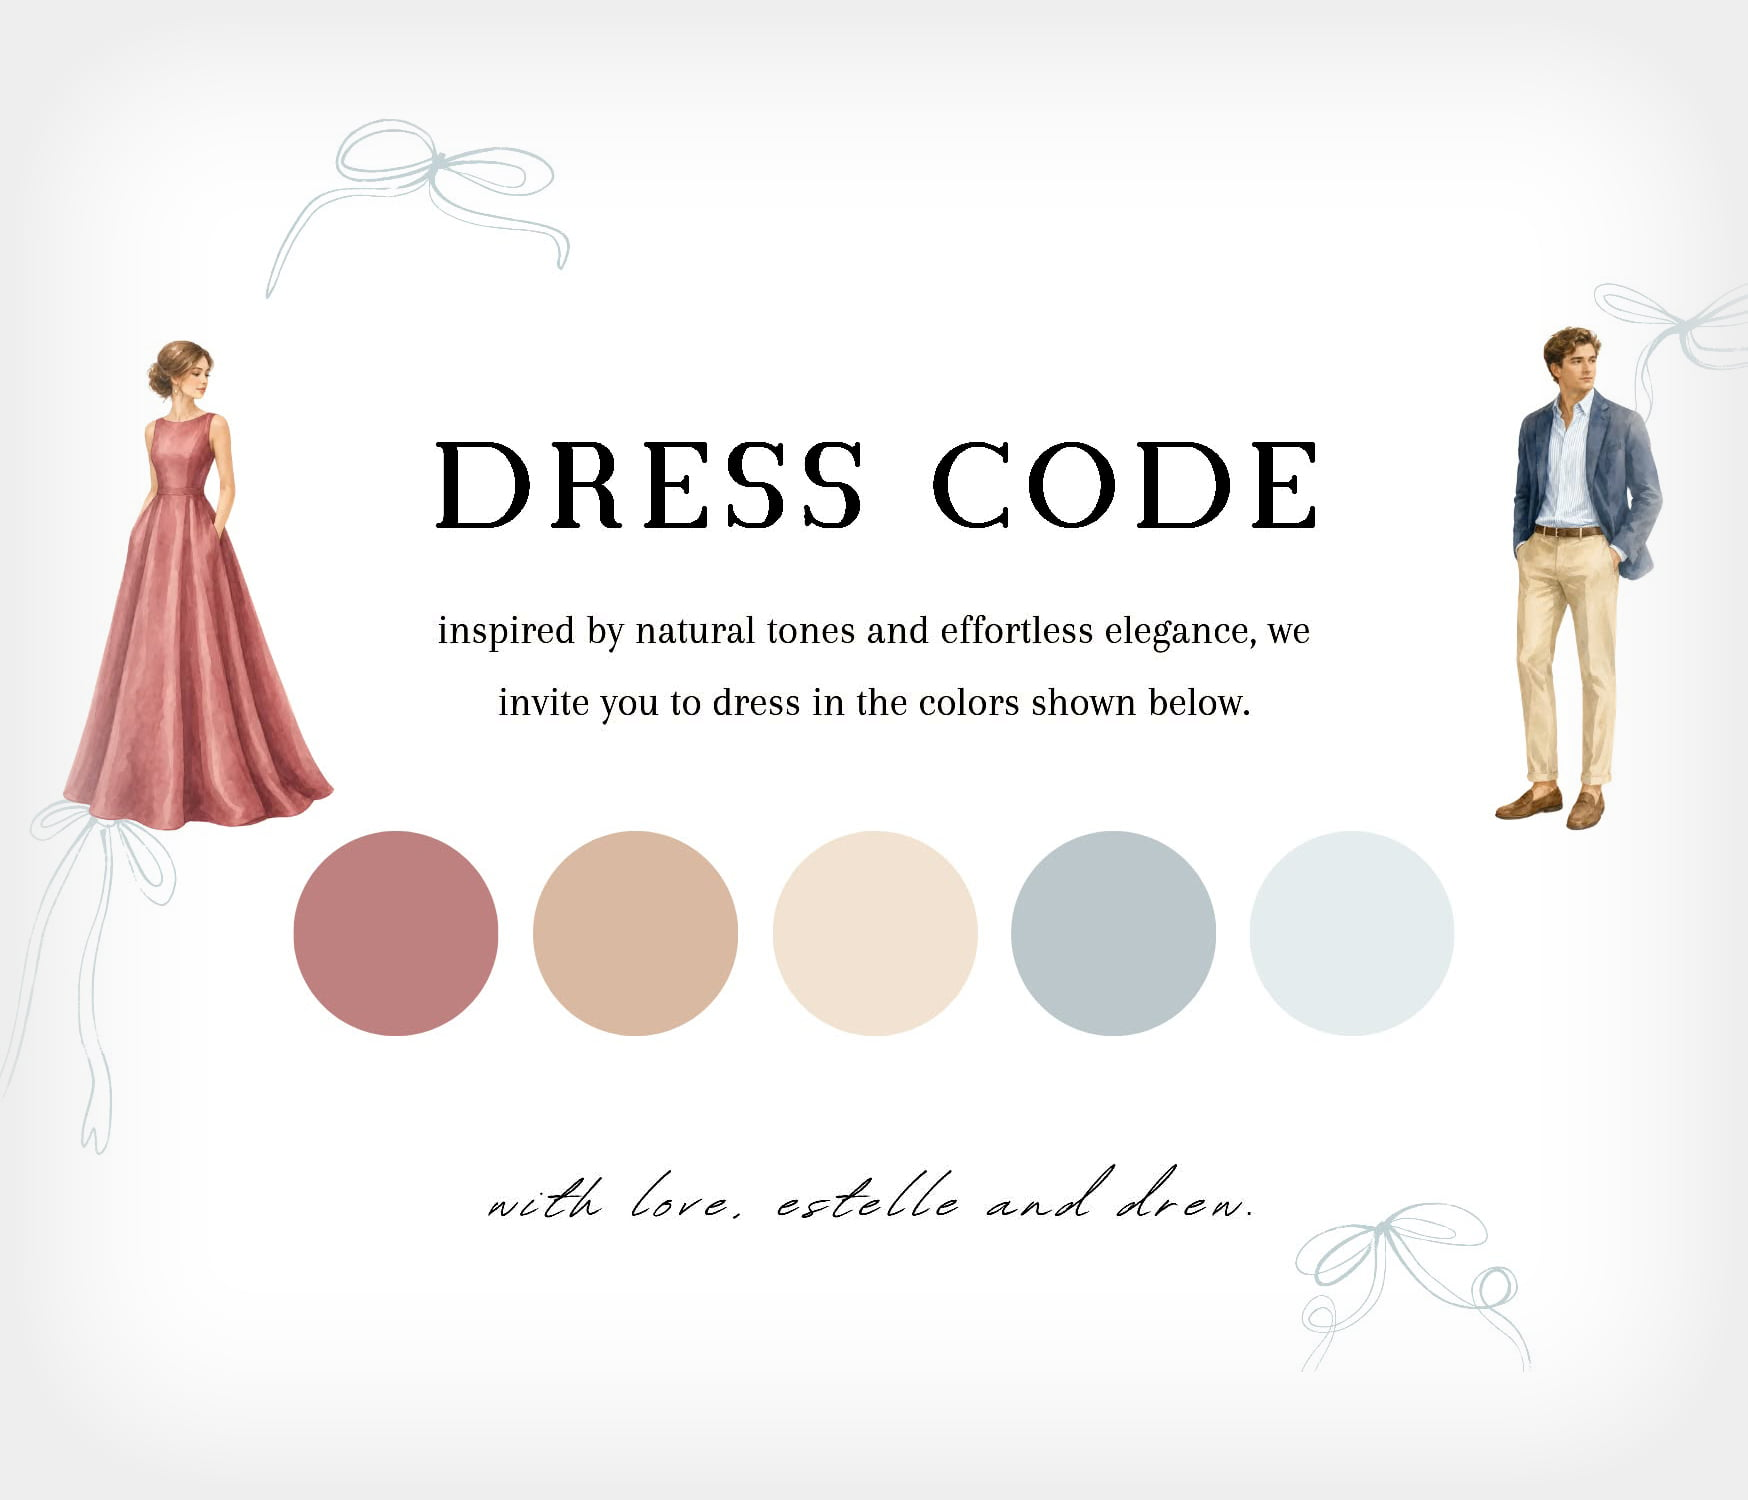
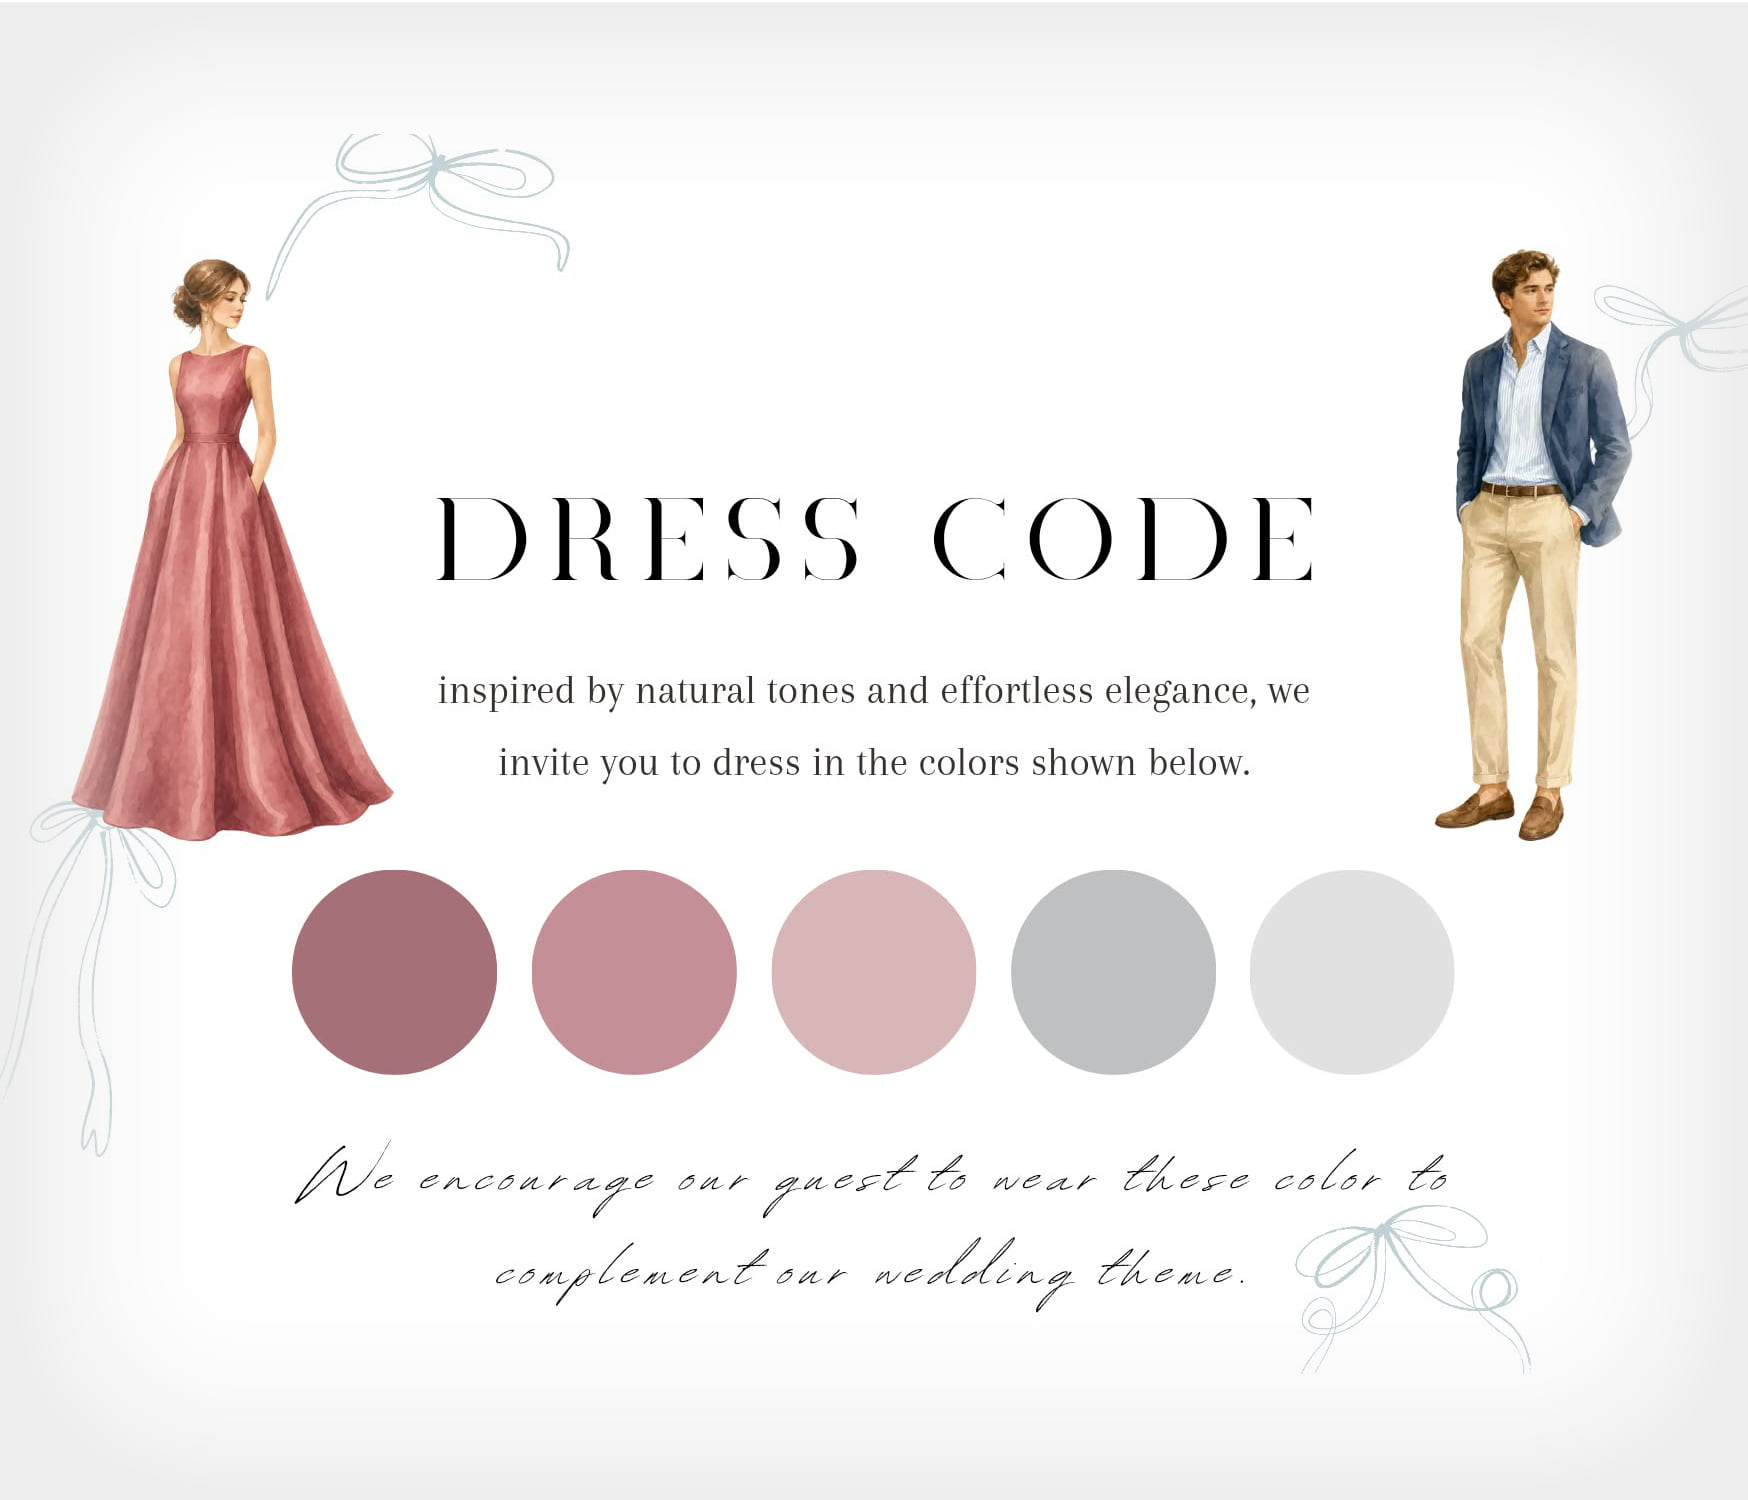
..

diff --git a/js/min/loader.min.js b/js/min/loader.min.js
@@ -1,1 +1,1 @@
-const CONTENT_BUILD_VERSION="11.07.26",SCRIPT_BUILD_VERSION="11.07.26",DATA_VERSION="1.0.7",ANIMATION_VERSION="1.0.0",SCRIPT_VERSION="1.0.0",LISTENER_VERSION="1.0.0",ICON_VERSION="1.0.0",FONT_VERSION="1.0.0",STYLE_VERSION="1.0.0",HTML_LOADING_VERSION="1.0.0",HTML_HEADER_VERSION="1.0.0",HTML_MAIN_VERSION="1.0.0",HTML_FOOTER_VERSION="1.0.0",loadAssets=({rel:t,href:e,type:n})=>new Promise((s,o)=>{const a=document.createElement("link");a.rel=t,a.href=e,n&&(a.type=n),a.onload=s,a.onerror=o,document.head.appendChild(a),"stylesheet"!=t?.toLowerCase()&&s()}),loadContentHTML=async(t,e)=>{const n=await fetch(e),s=await n.text();document.getElementById(t).insertAdjacentHTML("beforeend",s)},loadWebContent=async()=>{await loadAssets({rel:"stylesheet",href:"css/style.min.css?v=1.0.0&11.07.26"}),await loadContentHTML("loadingContent","content/loading.html?v=1.0.0&11.07.26"),await loadAssets({rel:"icon",href:"/assets/favicon.ico?v=1.0.0&11.07.26",type:"image/x-icon"}),await loadAssets({rel:"stylesheet",href:"assets/fonts/fonts.min.css?v=1.0.0&11.07.26"}),await loadContentHTML("mainContent","content/header.html?v=1.0.0&11.07.26"),await loadContentHTML("mainContent","content/main_content.html?v=1.0.0&11.07.26"),await loadContentHTML("mainContent","content/footer.html?v=1.0.0&11.07.26"),console.log("Website content loaded")},scripts=["js/libs/gsap.min.js","js/libs/scrollTrigger.min.js","js/min/animation.min.js?v=1.0.0&11.07.26","js/min/script.min.js?v=1.0.0&11.07.26","js/min/listener.min.js?v=1.0.0&11.07.26","js/min/content.min.js?v=1.0.7&11.07.26"],loadScripts=(t=0)=>{if(t>=scripts.length)return void console.log("Website scripts loaded");const e=document.createElement("script");e.src=scripts[t],e.onload=()=>loadScripts(t+1),document.body.appendChild(e)};(async()=>{await loadWebContent(),loadScripts()})();
+const CONTENT_BUILD_VERSION="11.07.26",SCRIPT_BUILD_VERSION="11.07.26",DATA_VERSION="1.0.8",ANIMATION_VERSION="1.0.0",SCRIPT_VERSION="1.0.0",LISTENER_VERSION="1.0.0",ICON_VERSION="1.0.0",FONT_VERSION="1.0.0",STYLE_VERSION="1.0.0",HTML_LOADING_VERSION="1.0.0",HTML_HEADER_VERSION="1.0.0",HTML_MAIN_VERSION="1.0.0",HTML_FOOTER_VERSION="1.0.0",loadAssets=({rel:t,href:e,type:n})=>new Promise((s,o)=>{const a=document.createElement("link");a.rel=t,a.href=e,n&&(a.type=n),a.onload=s,a.onerror=o,document.head.appendChild(a),"stylesheet"!=t?.toLowerCase()&&s()}),loadContentHTML=async(t,e)=>{const n=await fetch(e),s=await n.text();document.getElementById(t).insertAdjacentHTML("beforeend",s)},loadWebContent=async()=>{await loadAssets({rel:"stylesheet",href:"css/style.min.css?v=1.0.0&11.07.26"}),await loadContentHTML("loadingContent","content/loading.html?v=1.0.0&11.07.26"),await loadAssets({rel:"icon",href:"/assets/favicon.ico?v=1.0.0&11.07.26",type:"image/x-icon"}),await loadAssets({rel:"stylesheet",href:"assets/fonts/fonts.min.css?v=1.0.0&11.07.26"}),await loadContentHTML("mainContent","content/header.html?v=1.0.0&11.07.26"),await loadContentHTML("mainContent","content/main_content.html?v=1.0.0&11.07.26"),await loadContentHTML("mainContent","content/footer.html?v=1.0.0&11.07.26"),console.log("Website content loaded")},scripts=["js/libs/gsap.min.js","js/libs/scrollTrigger.min.js","js/min/animation.min.js?v=1.0.0&11.07.26","js/min/script.min.js?v=1.0.0&11.07.26","js/min/listener.min.js?v=1.0.0&11.07.26","js/min/content.min.js?v=1.0.8&11.07.26"],loadScripts=(t=0)=>{if(t>=scripts.length)return void console.log("Website scripts loaded");const e=document.createElement("script");e.src=scripts[t],e.onload=()=>loadScripts(t+1),document.body.appendChild(e)};(async()=>{await loadWebContent(),loadScripts()})();

diff --git a/js/loader.js b/js/loader.js
@@ -1,6 +1,6 @@
 const CONTENT_BUILD_VERSION = "11.07.26" //reache all
 const SCRIPT_BUILD_VERSION = "11.07.26" //reache all
-const DATA_VERSION = "1.0.7";
+const DATA_VERSION = "1.0.8";
 
 //Scripts version
 const ANIMATION_VERSION = "1.0.0";
